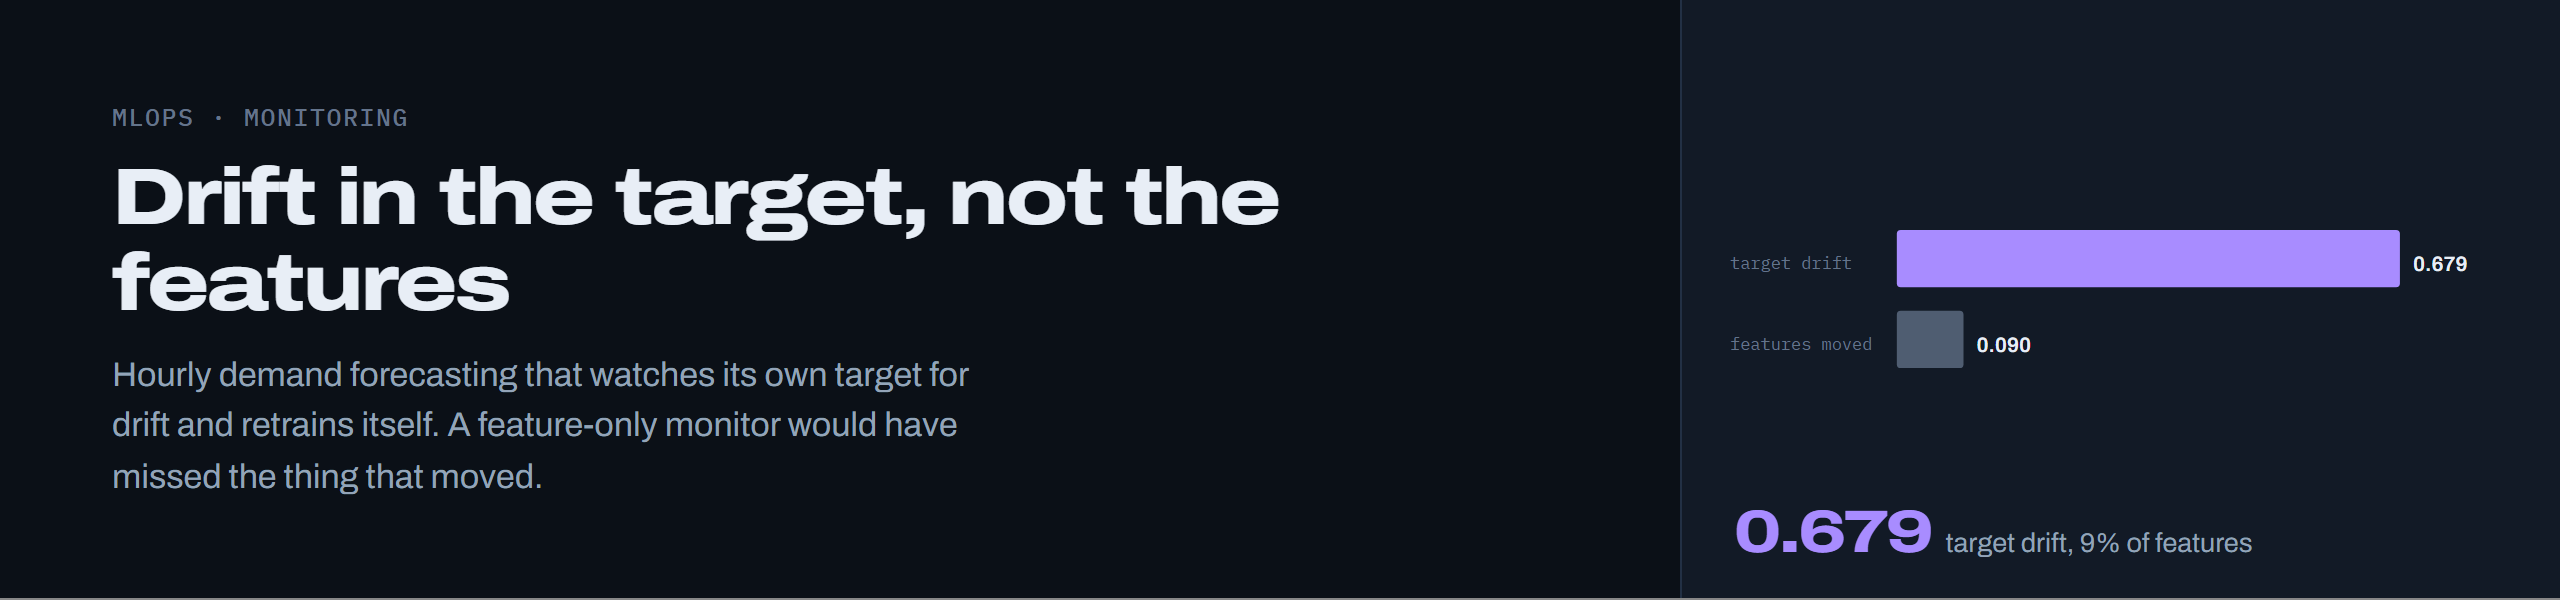
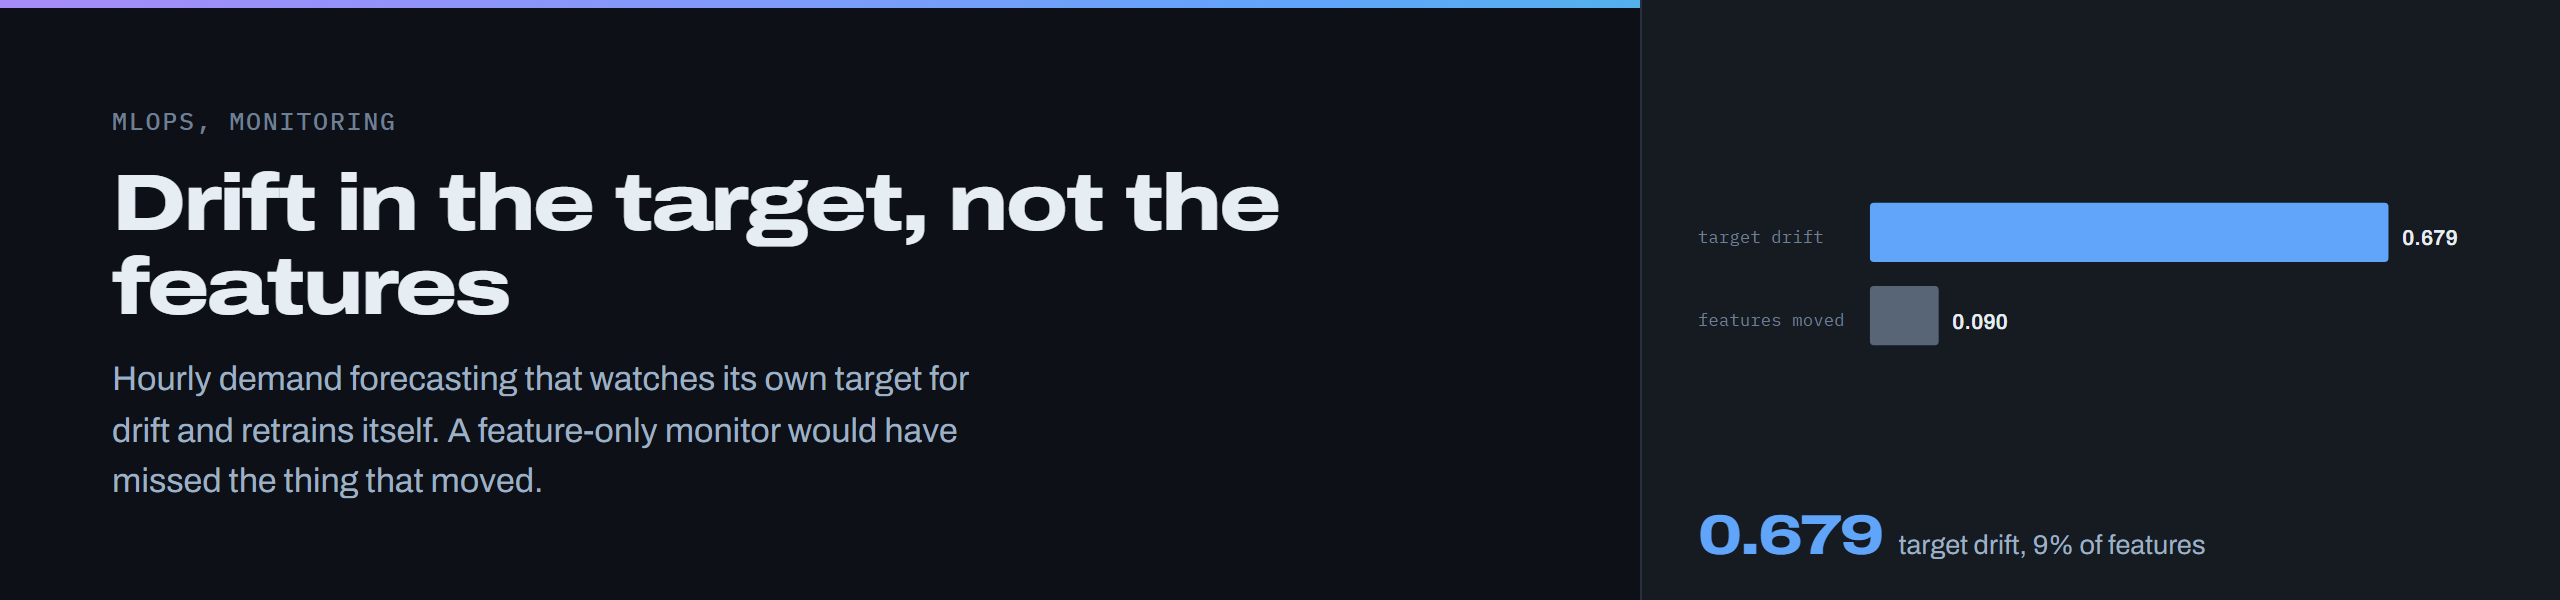
Replace machine-written punctuation and re-render the header image
Em dashes, middle dots, arrows, the multiplication sign and the superscript two
go, for the words or the plain characters that mean the same thing. The rule is
the one the CV, the GitHub profile and the website are all held to, enforced by
check_characters.py, so the four surfaces cannot drift apart.

The header image is re-rendered in the muted palette the profile moved to.
No claim, number or result changed.

diff --git a/README.md b/README.md
@@ -1,6 +1,6 @@
 <picture>
   <source media="(prefers-color-scheme: dark)" srcset="docs/assets/header-dark.png">
-  <img alt="drift-aware-ml-platform — hourly demand forecasting that detects drift in its own target and retrains" src="docs/assets/header-light.png">
+  <img alt="drift-aware-ml-platform, hourly demand forecasting that detects drift in its own target and retrains" src="docs/assets/header-light.png">
 </picture>
 
 # drift-aware-ml-platform
@@ -23,7 +23,7 @@ engineering against, and what each decision cost.
 
 Three loops. Training fits a challenger on the UCI hourly data, pinned by SHA-256, and ships
 it only through two gates: beat "predict the training mean" by 35%, then beat the current
-champion — re-scored on the challenger's own validation window — by 2%. Every challenger is
+champion, re-scored on the challenger's own validation window, by 2%. Every challenger is
 logged to MLflow; promotion moves the `@champion` alias, which is the pointer the service
 loads. Monitoring compares a serving window against the same seasons a year earlier and
 `decide_retrain` applies the policy. Serving answers predictions, exports Prometheus
@@ -40,14 +40,14 @@ The loop, run end to end. The drift and detector figures come from
 
 | Step | What happened |
 |---|---|
-| 1. Train on 2011 | MAE **51.49**, R² **0.621** on 1,729 held-out hours, against a mean baseline of 98.94. Promoted, registry version 1. |
+| 1. Train on 2011 | MAE **51.49**, R2 **0.621** on 1,729 held-out hours, against a mean baseline of 98.94. Promoted, registry version 1. |
 | 2. Train again, unchanged | *Refused.* "challenger MAE 51.49 is not 2% better than champion 51.49" |
 | 3. Monitor 2012 against 2011 | *Retrain.* Target drifted **0.679**, while only **9%** of features moved |
 | 4. Retrain including 2012 | Champion re-scored on the new window: MAE **116.57**. Challenger: **95.48**, 18% better. Promoted, version 4. |
 | 5. Service reloads | `/ready` reports `model_version: 4`, `/predict` answers in ~2 ms warm |
 
 **The drift signal is not in the features.** Between 2011 and 2012 only humidity crosses the
-per-column threshold — a feature drift share of 0.09 across eleven feature columns — while
+per-column threshold, a feature drift share of 0.09 across eleven feature columns, while
 the target's drift score is 0.679. A monitor watching inputs alone would sleep through a 63%
 rise in demand, so [`decide_retrain`](src/mlplatform/drift.py) fires on either signal and
 checks the target first, because that is the one that trips here.
@@ -68,15 +68,15 @@ The stronger evidence that the relationship moved is in the table above: the 201
 re-scored on 2012 gets MAE 116.57 where a model trained on the new window gets 95.48. An old
 mapping fitting worse than a new one is what P(y|X) moving looks like.
 
-**A streaming detector would not have been faster.** Calibrated on the 2011 control alone —
+**A streaming detector would not have been faster.** Calibrated on the 2011 control alone,
 the most sensitive `delta` that stays silent where any alarm is false, chosen without
-looking at 2012 — ADWIN at `delta=1e-5` raises zero false alarms and first speaks at row
+looking at 2012, ADWIN at `delta=1e-5` raises zero false alarms and first speaks at row
 1855, about 77 days in. The window monitor already here crosses its threshold between rows
 1855 and 2500. Same arrival, one fewer dependency and one fewer parameter to recalibrate per
 deployment.
 
 **The window guard was counting the wrong thing, and the fix made it earlier as well as
-quieter.** `min_window_rows` is 500 rows, 21 days, which in this data is January only —
+quieter.** `min_window_rows` is 500 rows, 21 days, which in this data is January only,
 compared against a reference spanning twelve months, so six calendar columns "drifted" for
 seasonal reasons and the monitor called a retrain that nothing justified. Cutting the
 reference to the same seasons a year earlier removes the false alarm at day 21 and brings the
@@ -86,7 +86,7 @@ real signal forward from about day 104 to day 42:
 |---|---|---|---|---|
 | 500 | 21 | Jan | **retrain**, 64% of features | *declines*, 688 comparable rows |
 | 720 | 30 | Jan | **retrain**, 55% of features | *declines*, 688 comparable rows |
-| 1000 | 42 | Jan–Feb | retrain, 55% of features | **retrain**, target moved **1.243** |
+| 1000 | 42 | Jan-Feb | retrain, 55% of features | **retrain**, target moved **1.243** |
 | 8734 | 364 | all | retrain, target 0.679 | retrain, target 0.679 |
 
 ## Run it
@@ -146,7 +146,7 @@ A feature-only monitor sleeps through a 63% rise in demand. So
 [`decide_retrain`](src/mlplatform/drift.py) fires on either signal, and checks
 the target first because that is the one that actually trips here.
 
-> The 144 → 235 figures, and therefore the 63%, are written down in prose here and in
+> The 144 to 235 figures, and therefore the 63%, are written down in prose here and in
 > [`src/mlplatform/config.py`](src/mlplatform/config.py). No script computes them and no
 > results file holds them. Read them as a description of the dataset, not as an output.
 
@@ -156,7 +156,7 @@ MAE. Those are measured on different data: the champion was scored on 2011
 (mean demand 144), the challenger on 2012 (mean 235). MAE scales with the
 magnitude of the target, so the retrained model looked *worse*, 95.48 against
 51.49, and the gate blocked the very promotion that drift had just called for.
-R² told the truth the whole time, 0.622 against 0.621, the same model quality on
+R2 told the truth the whole time, 0.622 against 0.621, the same model quality on
 a harder window. The fix is in
 [`_champion_mae_on`](src/mlplatform/train.py): load the live champion and score
 it on the challenger's own validation slice. On the same window the champion
@@ -194,7 +194,7 @@ say why. It now loads in a background thread: live immediately, not ready until
 the model arrives, which is exactly the distinction the two probes exist for.
 
 <details>
-<summary><b>Would a streaming detector have been faster — the full measurement</b></summary>
+<summary><b>Would a streaming detector have been faster, the full measurement</b></summary>
 
 The monitor here compares distributions over a window. The concept-drift
 literature does something else: it watches the model's own error one observation
@@ -204,7 +204,7 @@ it would have spoken sooner.
 
 It would not, and two of the three cannot tell drift from no drift at all.
 `python scripts/experiments/drift_latency.py` streams the 2011 champion over
-held-out 2011 — the regime it was trained on, where any alarm is a false one —
+held-out 2011, the regime it was trained on, where any alarm is a false one,
 and over 2012, and writes [`results/drift_latency.json`](results/drift_latency.json):
 
 | detector | control (2011) | 2012 |
@@ -217,8 +217,8 @@ Page-Hinkley fires at the same row whether the world moved or not. KSWIN fires
 *later* under drift than without it. Only ADWIN is directionally sensible, and
 at default settings it still raises false alarms.
 
-Calibrated on the control alone — the most sensitive setting that stays silent
-on 2011, never chosen by what it does to 2012 — ADWIN at `delta=1e-5` gives zero
+Calibrated on the control alone, the most sensitive setting that stays silent
+on 2011, never chosen by what it does to 2012, ADWIN at `delta=1e-5` gives zero
 false alarms and first speaks at row 1855, about 77 days in. The target signal
 already here crosses its threshold between rows 1855 and 2500. **The streaming
 detector arrives at the same time as the monitor that was already running**, and
@@ -238,17 +238,17 @@ reason the headline table describes. The first 500 rows are **January only**,
 against a reference spanning twelve months, so `temp`, `atemp`, `season`,
 `mnth`, `holiday` and `windspeed` all crossed their thresholds for calendar
 reasons. The 0.09 feature share quoted earlier is a full-year number; at every
-partial window it was 55–73%, falling only once the serving window came round to
+partial window it was 55 to 73%, falling only once the serving window came round to
 the same seasons as the reference.
 
 `min_window_rows` is 500, which is 21 days. The guard was right in principle and
 counting the wrong thing: no number of rows inside a single season makes that
 comparison mean what it is read to mean.
 
-The correction is to compare like with like — January against January, a year
-apart — which is the year-over-year alignment used against the same confound in
+The correction is to compare like with like, January against January, a year
+apart, which is the year-over-year alignment used against the same confound in
 seasonal churn models ([arXiv:2608.18174](https://arxiv.org/abs/2608.18174),
-reporting ROC-AUC 0.767 → 0.864 and a third fewer false alarms). This project
+reporting ROC-AUC 0.767 to 0.864 and a third fewer false alarms). This project
 already pays that method's main cost, because the reference *is* the prior year.
 
 Two things had to change together, and the order mattered.
@@ -256,14 +256,14 @@ Two things had to change together, and the order mattered.
 **A p-value runs the other way.** Evidently picks its test by how much reference
 data there is: a distance above roughly a thousand rows, a **K-S p-value** below.
 This code compared both with `score > threshold`, which for a p-value is
-backwards in both directions at once — identical data read as drifted (p = 1.0),
+backwards in both directions at once, identical data read as drifted (p = 1.0),
 and overwhelming drift read as quiet (p = 1.6e-23). It was dormant only because
 the default reference is a whole year. Aligning seasons shrinks the reference
 and would have woken it, so it is fixed first: `ColumnDrift` now knows which way
 its own test runs.
 
 **Then the guard.** The reference is cut to the seasons being served, and a
-second guard refuses to judge when too little comparable history remains —
+second guard refuses to judge when too little comparable history remains,
 because below about a thousand rows the test becomes a p-value, and a p-value at
 these sample sizes rejects differences far too small to retrain on.
 
@@ -271,7 +271,7 @@ these sample sizes rejects differences far too small to retrain on.
 |---|---|---|---|---|
 | 500 | 21 | Jan | **retrain**, 64% of features | *declines*, 688 comparable rows |
 | 720 | 30 | Jan | **retrain**, 55% of features | *declines*, 688 comparable rows |
-| 1000 | 42 | Jan–Feb | retrain, 55% of features | **retrain**, target moved **1.243** |
+| 1000 | 42 | Jan-Feb | retrain, 55% of features | **retrain**, target moved **1.243** |
 | 8734 | 364 | all | retrain, target 0.679 | retrain, target 0.679 |
 
 The false alarm at 21 days is gone, and the real signal arrives **sooner**: the
@@ -355,7 +355,7 @@ trade-off was each time.
 
 Known gaps, stated rather than hidden. The Terraform module describes a working
 deployment but has not been applied against a live project. There is no feature
-store. There is no predictive-uncertainty estimate anywhere — predictions are point
+store. There is no predictive-uncertainty estimate anywhere, predictions are point
 values. The Grafana dashboard covers service and prediction metrics, not
 per-feature distributions. Retraining is a full refit, nothing incremental. And
 the prediction log is a parquet file on a volume, which is fine for one instance
